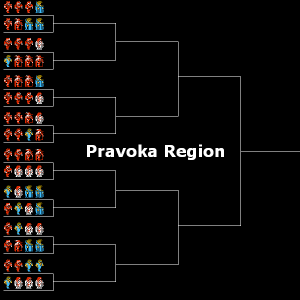
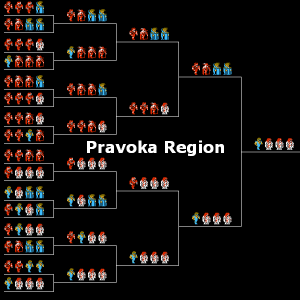
- add Pravoka results to bracket - set Pravoka champ in championship region

diff --git a/js/regions.js b/js/regions.js
@@ -111,7 +111,7 @@ var FFRegionData = (function() {
     round5:[""]}; 
   
   var Championship = {
-    round1:[["WM - BM - BM - BM", ""] // Coneria v Pravoka
+    round1:[["WM - BM - BM - BM", "BB - WM - WM - WM"] // Coneria v Pravoka
            ,["", ""] // Elfland v Melmond
            ,["", ""] // Crescent Lake v Onrac
            ,["", ""]] // Gaia v Lefein
